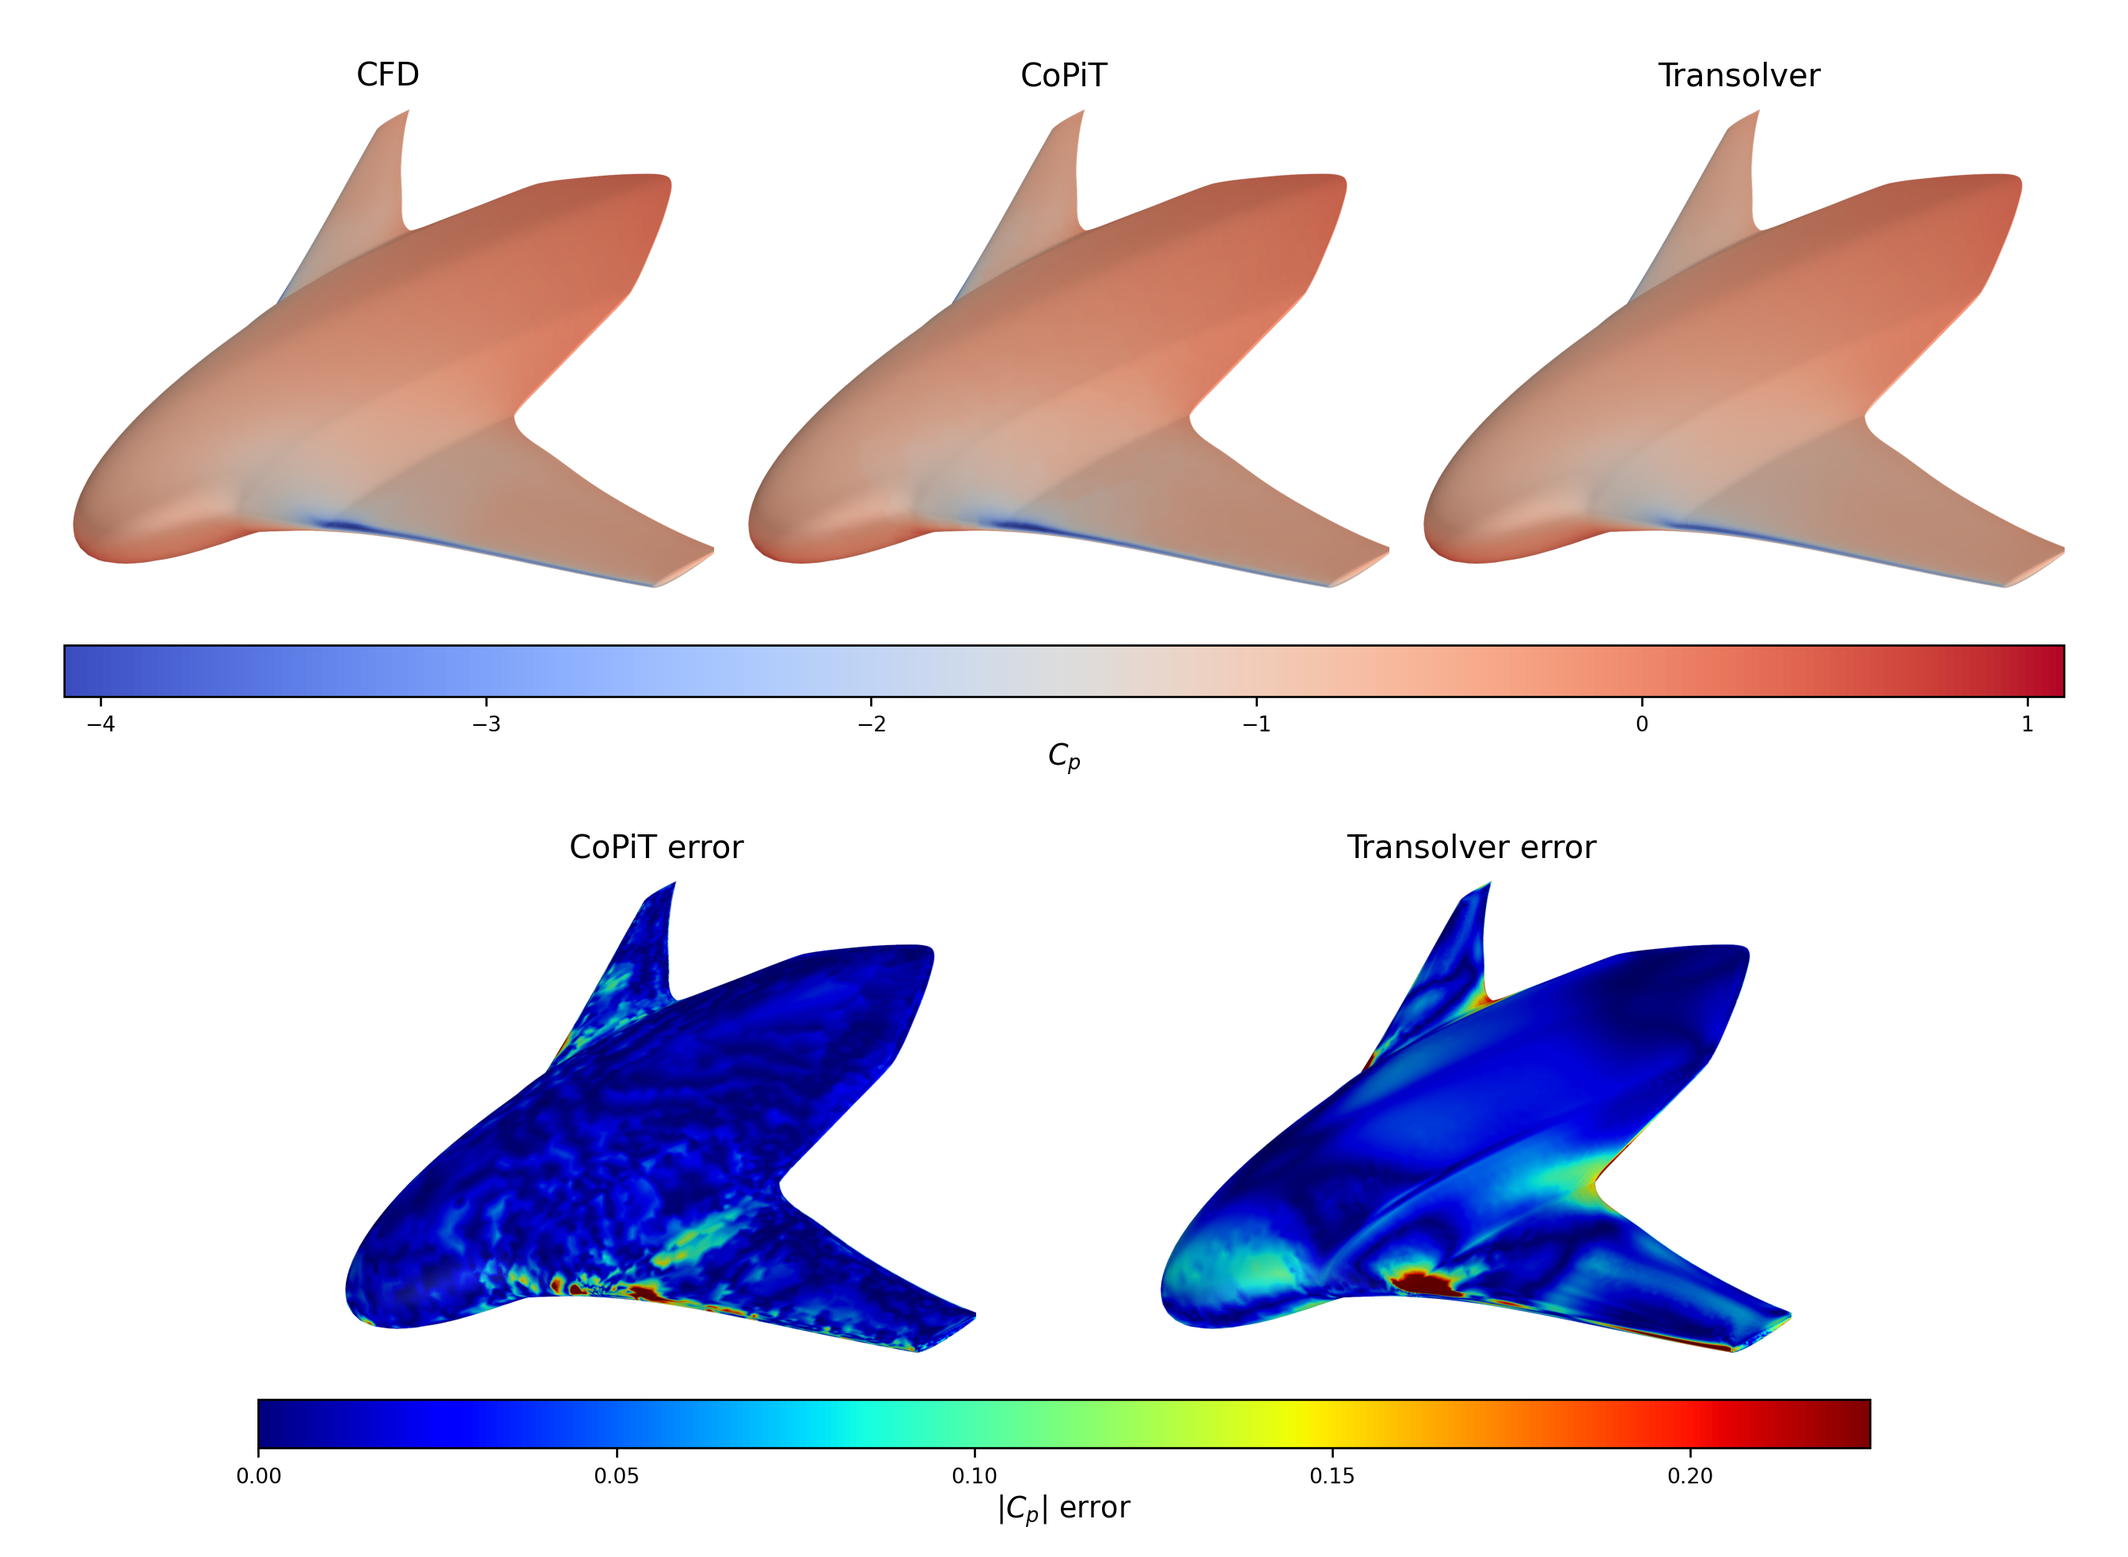
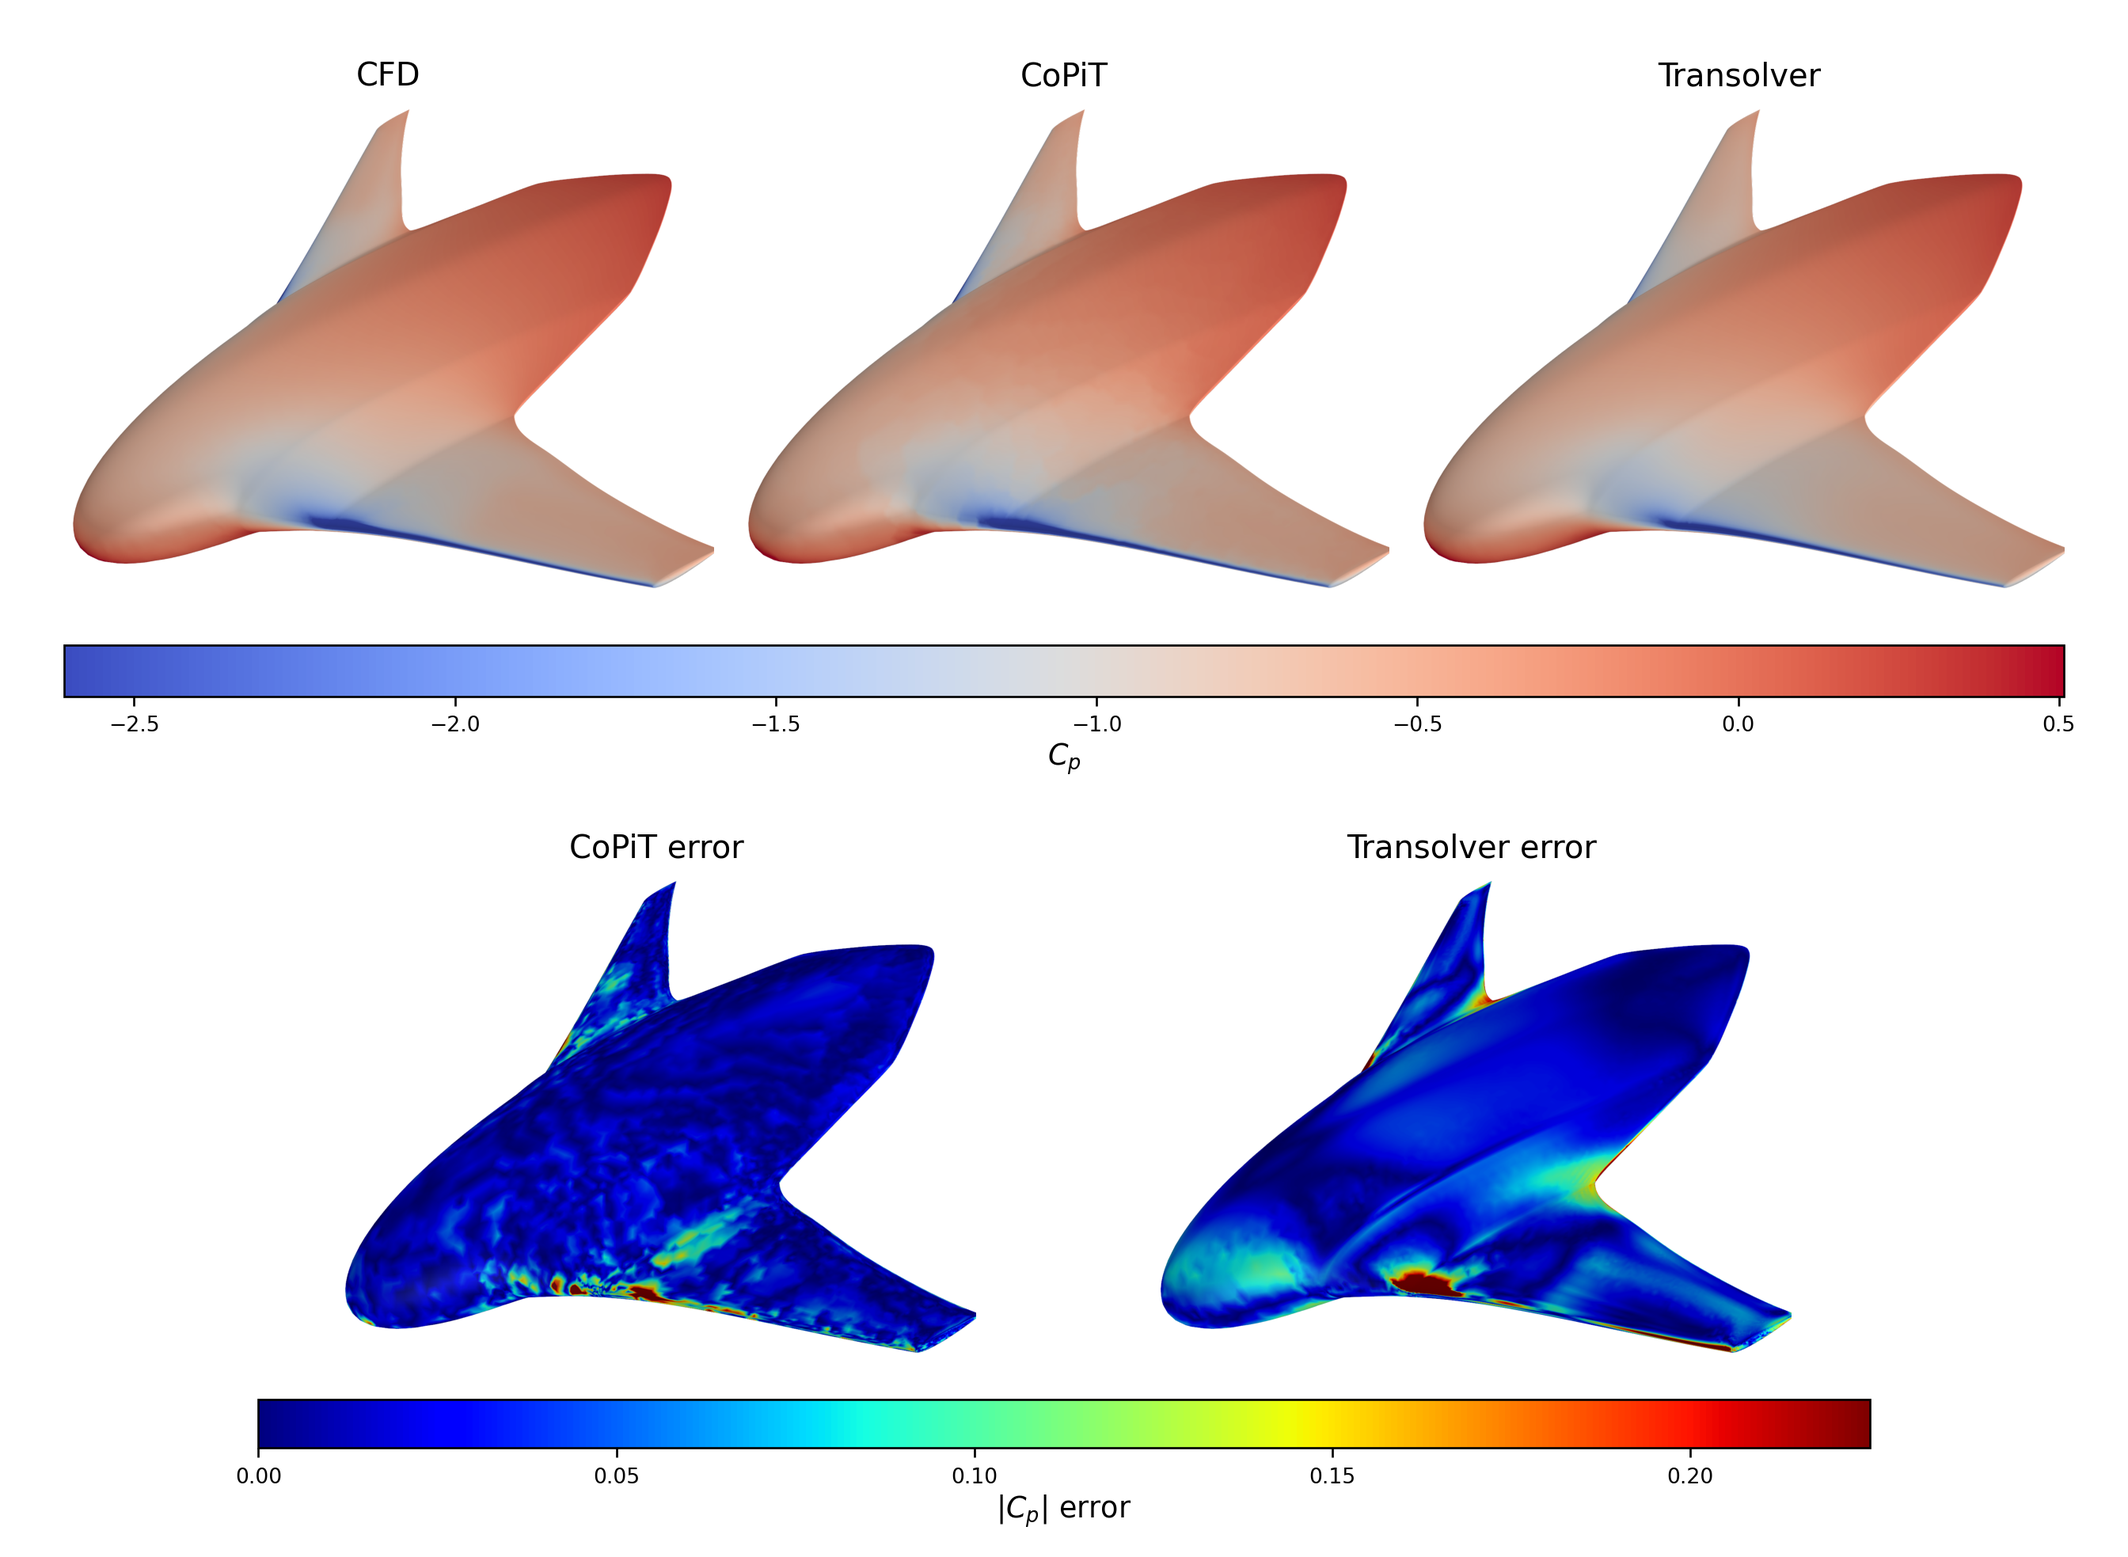
Fill page 8 and add separate BlendedNet++ Cfx and Cfz figures.
Keep the AirfRANS full-field figure from splitting a sentence, and plot
skin-friction channels as their own figures rather than crowding Figure 8.

diff --git a/main.tex b/main.tex
@@ -44,6 +44,11 @@
 \setlength{\abovecaptionskip}{5pt}
 \setlength{\belowcaptionskip}{3pt}
 \raggedbottom
+\makeatletter
+\setlength{\@fptop}{0pt}
+\setlength{\@fpsep}{8pt plus 2pt minus 2pt}
+\setlength{\@fpbot}{0pt plus 1fil}
+\makeatother
 
 \newtheorem{proposition}{Proposition}
 
@@ -365,15 +370,7 @@ Velocity, pressure and eddy viscosity on one full-data test case are shown in Fi
 \label{fig:pred_true_nw}
 \end{figure}
 
-Since $C_{d}$ and $C_{l}$ are obtained by surface integration of pressure and wall shear, Figure~\ref{fig:airfrans_surf_cmp} compares these surface quantities for CoPiT and Transolver on the same test airfoil. Wall shear is computed from the predicted velocity field under a no-slip wall condition. On this sample, the surface-pressure relative $L^{1}$ errors are approximately $0.06$ for CoPiT and $0.18$ for Transolver. The case-wise comparison is descriptive and does not replace test-set aggregate statistics.
-
-\begin{figure}[t]
-\centering
-\includegraphics[width=0.98\linewidth,height=0.34\textheight,keepaspectratio]{figs/airfrans_copit_vs_transolver_surf.png}
-\caption{Surface pressure and wall shear on one AirfRANS test case (\texttt{airFoil2D\_SST\_31.812\_\ldots}). Top: CoPiT; bottom: Transolver. Blue: CFD; orange: prediction. Wall shear is evaluated from the predicted velocity with a no-slip wall condition.}
-\label{fig:airfrans_surf_cmp}
-\end{figure}
-
+\Needspace{8\baselineskip}
 Tables~\ref{tab:full}--\ref{tab:aoa} report held-out test losses and force-rank correlations for the four AirfRANS splits. All surface and volume entries are evaluation losses rather than optimisation losses. The graph-baseline entries are taken from the benchmark evaluation outputs; Transolver and CoPiT predictions are aggregated with the same channel definitions.
 
 \begin{table}[H]
@@ -394,7 +391,7 @@ CoPiT       & \textbf{0.004228} & \textbf{0.028599} & \textbf{0.8388} & \textbf{
 \end{tabular}
 \end{table}
 
-On the full-data split, CoPiT reduces the test surface and volume losses relative to Transolver by approximately $54\%$ and $24\%$, respectively, and has the highest drag and lift rank correlations. CoPiT uses about four times fewer trainable parameters than Transolver (Table~\ref{tab:params}).
+On the full-data split, CoPiT reduces the test surface and volume losses relative to Transolver by approximately $54\%$ and $24\%$, respectively, and has the highest drag and lift rank correlations. CoPiT uses about four times fewer trainable parameters than Transolver (Table~\ref{tab:params}). The case-wise field maps in Figs.~\ref{fig:pred_true}--\ref{fig:pred_true_nw} illustrate where the remaining error is concentrated.
 
 \begin{table}[H]
 \caption{AirfRANS scarce-data test results (200 training cases).}
@@ -471,6 +468,15 @@ Params & 19{,}988 & 29{,}204 & 75{,}244 & 65{,}820 & 5{,}996{,}868 & 1{,}494{,}5
 \end{tabular}
 \end{table}
 
+Since $C_{d}$ and $C_{l}$ are obtained by surface integration of pressure and wall shear, Figure~\ref{fig:airfrans_surf_cmp} compares these surface quantities for CoPiT and Transolver on the same test airfoil. Wall shear is computed from the predicted velocity field under a no-slip wall condition. On this sample, the surface-pressure relative $L^{1}$ errors are approximately $0.06$ for CoPiT and $0.18$ for Transolver. The case-wise comparison is descriptive and does not replace test-set aggregate statistics.
+
+\begin{figure}[t]
+\centering
+\includegraphics[width=0.98\linewidth,height=0.34\textheight,keepaspectratio]{figs/airfrans_copit_vs_transolver_surf.png}
+\caption{Surface pressure and wall shear on one AirfRANS test case (\texttt{airFoil2D\_SST\_31.812\_\ldots}). Top: CoPiT; bottom: Transolver. Blue: CFD; orange: prediction. Wall shear is evaluated from the predicted velocity with a no-slip wall condition.}
+\label{fig:airfrans_surf_cmp}
+\end{figure}
+
 Predicted and reference force coefficients on the 200-case full-data test set are compared in Fig.~\ref{fig:force_scatter} under the same integration protocol. CoPiT yields $\rho_{d}\approx 0.839$ and $\rho_{l}\approx 0.999$, whereas Transolver reaches $\rho_{d}\approx 0.145$ and $\rho_{l}\approx 0.998$: lift ranking is strong for both models, while drag ranking is substantially improved by CoPiT.
 
 \begin{figure}[t]
@@ -488,7 +494,6 @@ Predicted and reference force coefficients on the 200-case full-data test set ar
 \caption{True versus predicted $C_d$ (left panels) and $C_l$ (right panels) on the AirfRANS full-data test set.}
 \label{fig:force_scatter}
 \end{figure}
-\Needspace{12\baselineskip}
 
 Matched PiT variants are evaluated with the same full-data test protocol as in Table~\ref{tab:full} (Table~\ref{tab:ablate_air}). Removing the freestream condition (geometry-only PiT) collapses both field accuracy and lift ranking. Supplying $(U_{\infty},\alpha)$ by input concatenation, with or without a width increase to match CoPiT's parameter count, recovers lift ranking but remains weaker than FiLM on surface loss, volume loss and $\rho_d$. Decoder-only FiLM attains the lowest surface and volume losses in this family, whereas complete CoPiT (processor and decoder FiLM) attains the highest $\rho_d$. The ablation is reported separately from Table~\ref{tab:full}.
 
@@ -515,7 +520,7 @@ Complete CoPiT & 0.004228 & 0.028599 & \textbf{0.8388} & 0.9994 \\
 
 On the official forward test set, under a common reimplementation protocol, CoPiT attains the lowest overall normalised MSE ($0.0530$) and the lowest errors on $C_{p}$ and $C_{f,x}$ (Table~\ref{tab:blendednetpp}). Transolver is the closest competitor overall ($0.0568$, about $7\%$ higher) and has a slightly lower $C_{f,z}$ error. Streamwise skin friction $C_{f,x}$ is the hardest channel for every model. All scores are expressed in the same per-channel $z$-score space used for training and therefore differ in scale from physical relative errors reported elsewhere. The ordering is a single-run point estimate. The GNOT reimplementation completed training (early stopping at validation MSE $0.547$) but remained an order of magnitude above the other models and is not treated as a competitive ranking.
 
-\begin{table}[t]
+\begin{table}[H]
 \caption{BlendedNet++ forward surface regression under a common reimplementation protocol (test set, $N=2{,}498$). Single-run normalised MSE; the lowest point estimate in each column is shown in \textbf{bold}.}
 \label{tab:blendednetpp}
 \centering\footnotesize
@@ -534,13 +539,31 @@ GNOT        & 0.5234 & 0.5055 & 0.5088 & 0.5559 \\
 \end{tabular}
 \end{table}
 
-Surface $C_p$ on one test case (\texttt{test\_case\_0674}) is shown in Fig.~\ref{fig:blendednetpp_cp_cases}. Both CoPiT and Transolver recover the large-scale topology; CoPiT exhibits weaker error peaks near the wing--body junction on this sample (surface $C_p$ relative $L^{1}$ error of order $0.06$ versus $0.12$). The comparison is qualitative and is not used as evidence of population-level superiority.
+Surface $C_p$ on one test case (\texttt{test\_case\_0674}) is shown in Fig.~\ref{fig:blendednetpp_cp_cases}. Both CoPiT and Transolver recover the large-scale topology; CoPiT exhibits weaker error peaks near the wing--body junction on this sample (relative $L^{1}$ error of order $0.06$ versus $0.12$).
 
 \begin{figure}[t]
 \centering
 \includegraphics[width=0.98\linewidth]{figs/blend_cp_case0674.png}
 \caption{BlendedNet++ surface $C_p$ on \texttt{test\_case\_0674}: CFD reference, CoPiT and Transolver predictions (shared colour scale), and absolute errors (shared colour scale).}
 \label{fig:blendednetpp_cp_cases}
+\end{figure}
+
+Streamwise skin friction $C_{f,x}$ on the same case is shown in Fig.~\ref{fig:blendednetpp_cfx_cases}. The relative $L^{1}$ errors are of order $0.11$ for CoPiT and $0.35$ for Transolver; the largest residuals lie near the wing--body junction.
+
+\begin{figure}[t]
+\centering
+\includegraphics[width=0.98\linewidth]{figs/blend_cfx_case0674.png}
+\caption{BlendedNet++ streamwise skin friction $C_{f,x}$ on the same test case as Fig.~\ref{fig:blendednetpp_cp_cases}: CFD, CoPiT and Transolver (shared colour scale), and absolute errors (shared colour scale).}
+\label{fig:blendednetpp_cfx_cases}
+\end{figure}
+
+Spanwise skin friction $C_{f,z}$ is shown in Fig.~\ref{fig:blendednetpp_cfz_cases}. The relative $L^{1}$ errors are of order $0.16$ for CoPiT and $0.46$ for Transolver. These three panels are qualitative and are not used as evidence of population-level superiority.
+
+\begin{figure}[t]
+\centering
+\includegraphics[width=0.98\linewidth]{figs/blend_cfz_case0674.png}
+\caption{BlendedNet++ spanwise skin friction $C_{f,z}$ on the same test case as Fig.~\ref{fig:blendednetpp_cp_cases}: CFD, CoPiT and Transolver (shared colour scale), and absolute errors (shared colour scale).}
+\label{fig:blendednetpp_cfz_cases}
 \end{figure}
 
 The conditioning mechanism is isolated on the same PiT backbone, Euclidean metric, official split and 100-epoch budget in Table~\ref{tab:ablate_bnpp}. Concatenation-only (12-dimensional globals broadcast into 18-dimensional point features, no FiLM) yields overall test MSE $0.0741$. Adding FiLM to that encoding (hybrid) reduces the error to $0.0570$. Removing the broadcast and retaining only dual-stage FiLM---the reported CoPiT configuration---gives $0.0530$. Thus, on this split, FiLM is beneficial relative to concatenation, and broadcasting globals into the encoder is not required once FiLM is present. These three runs are single-seed point estimates.
@@ -568,6 +591,7 @@ The drag coefficient is a small residual between pressure and friction contribut
 \noindent\textbf{Role of FiLM.}\ 
 On AirfRANS (Table~\ref{tab:ablate_air}), a global condition is necessary: geometry-only PiT is not competitive. FiLM variants improve surface loss and $\rho_d$ relative to concatenation; increasing hidden width without FiLM does not close that gap. Decoder-only FiLM can outperform complete CoPiT on field MSE, so the two FiLM stages are not uniformly additive, while complete CoPiT attains the highest $\rho_d$ in the reported family. On BlendedNet++ (Table~\ref{tab:ablate_bnpp}), FiLM-only CoPiT outperforms both concatenation and hybrid broadcast-plus-FiLM on the same backbone and Euclidean metric.
 
+\Needspace{8\baselineskip}
 \noindent\textbf{Complexity.}\ 
 If $N_{\mathrm{ltt}}$ denotes the latent-mesh size, $L$ the number of processor blocks, $H$ the number of heads and $D$ the hidden width, dense processor self-attention scales as $\mathcal{O}(L N_{\mathrm{ltt}}^{2} H D)$ in arithmetic operations and requires quadratic attention storage unless evaluated in chunks. Encoder and decoder costs depend on the number of retained query--key pairs and are linear in the full-mesh size only when the neighbourhood size is bounded or chunking avoids materialising a dense matrix. Wall-clock training times on one NVIDIA A100 (80\,GB) for the main single-run checkpoints are listed in Table~\ref{tab:runtime}. CoPiT is smaller than Transolver on AirfRANS (Table~\ref{tab:params}) and trains in less wall-clock time on that dataset; on BlendedNet++ the two training times are comparable.
 
@@ -589,10 +613,13 @@ BlendedNet++ & Hybrid & 25.8\,h \\
 \end{tabular}
 \end{table}
 
+\Needspace{10\baselineskip}
 \section{Conclusion}
 \label{sec:conclusion}
 %% =====================================================================
-We have presented CoPiT, a conditional neural operator for aerodynamic field prediction on irregular meshes. Building on a position-induced Transformer backbone, CoPiT injects multi-stage FiLM conditioning from freestream and design parameters in the processor and decoder. The pointwise modulation leaves positional-attention weights unchanged, although a discretisation-consistency result for the complete implementation would require additional analysis. On the AirfRANS full-data test set, CoPiT has the lowest surface and volume losses among the compared published baselines and a higher drag rank correlation than Transolver. A matched ablation shows that an unconditioned PiT fails on the fields, concatenation is weaker than FiLM, and decoder-only FiLM can attain lower field losses than complete CoPiT. Advantages are not uniform across the more difficult settings: Graph U-Net has the lowest scarce-data volume loss, and Transolver is more accurate on angle-of-attack extrapolation fields and lift ranking. The large relative drag errors further show that rank correlation alone is insufficient to establish load accuracy. On BlendedNet++, CoPiT obtains the lowest overall normalised test-MSE point estimate among the reimplemented baselines, and a matched ablation favours FiLM-only conditioning over concatenation and hybrid broadcast-plus-FiLM.
+We have presented CoPiT, a conditional neural operator for aerodynamic field prediction on irregular meshes. Building on a position-induced Transformer backbone, CoPiT injects multi-stage FiLM conditioning from freestream and design parameters in the processor and decoder. The pointwise modulation leaves positional-attention weights unchanged, although a discretisation-consistency result for the complete implementation would require additional analysis. On the AirfRANS full-data test set, CoPiT has the lowest surface and volume losses among the compared published baselines and a higher drag rank correlation than Transolver. A matched ablation shows that an unconditioned PiT fails on the fields, concatenation is weaker than FiLM, and decoder-only FiLM can attain lower field losses than complete CoPiT. Advantages are not uniform across the more difficult settings: Graph U-Net has the lowest scarce-data volume loss, and Transolver is more accurate on angle-of-attack extrapolation fields and lift ranking.
+
+The large relative drag errors further show that rank correlation alone is insufficient to establish load accuracy. On BlendedNet++, CoPiT obtains the lowest overall normalised test-MSE point estimate among the reimplemented baselines, and a matched ablation favours FiLM-only conditioning over concatenation and hybrid broadcast-plus-FiLM.
 
 Several limitations remain. Proximity-based attention may still couple points that are close in ambient space but separated on the surface. Near-wall residuals dominate the field errors. All principal comparisons use one random seed, so the reported scores are single-run point estimates. Training is fully supervised (surface-weighted or plain MSE). Future work includes multi-seed evaluation, topology-aware metrics, residual-based regularisers, adaptive latent meshes and tighter coupling of the surrogate to aerodynamic optimisation.
 
